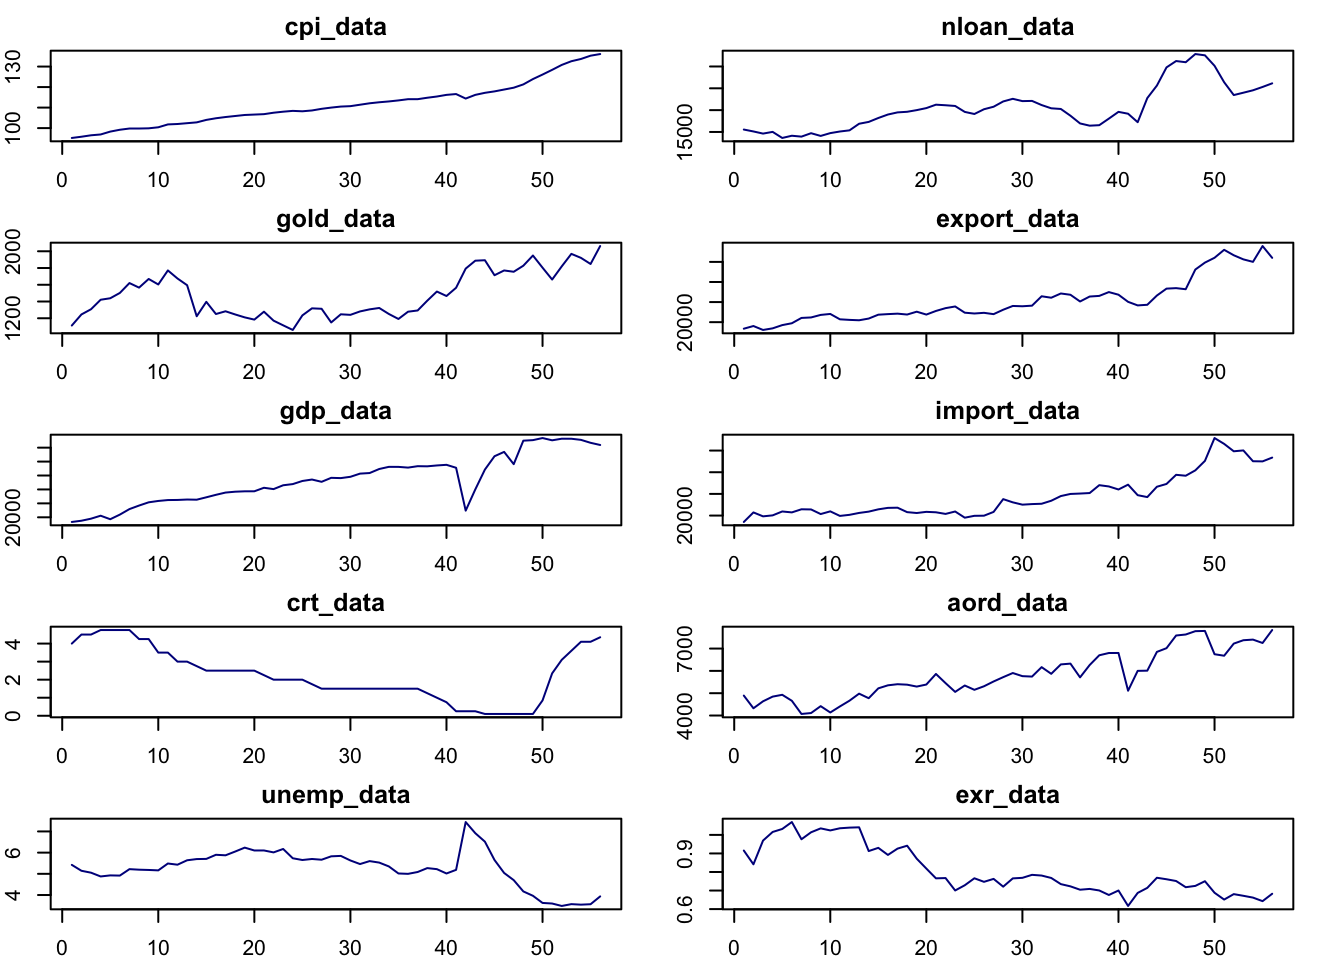
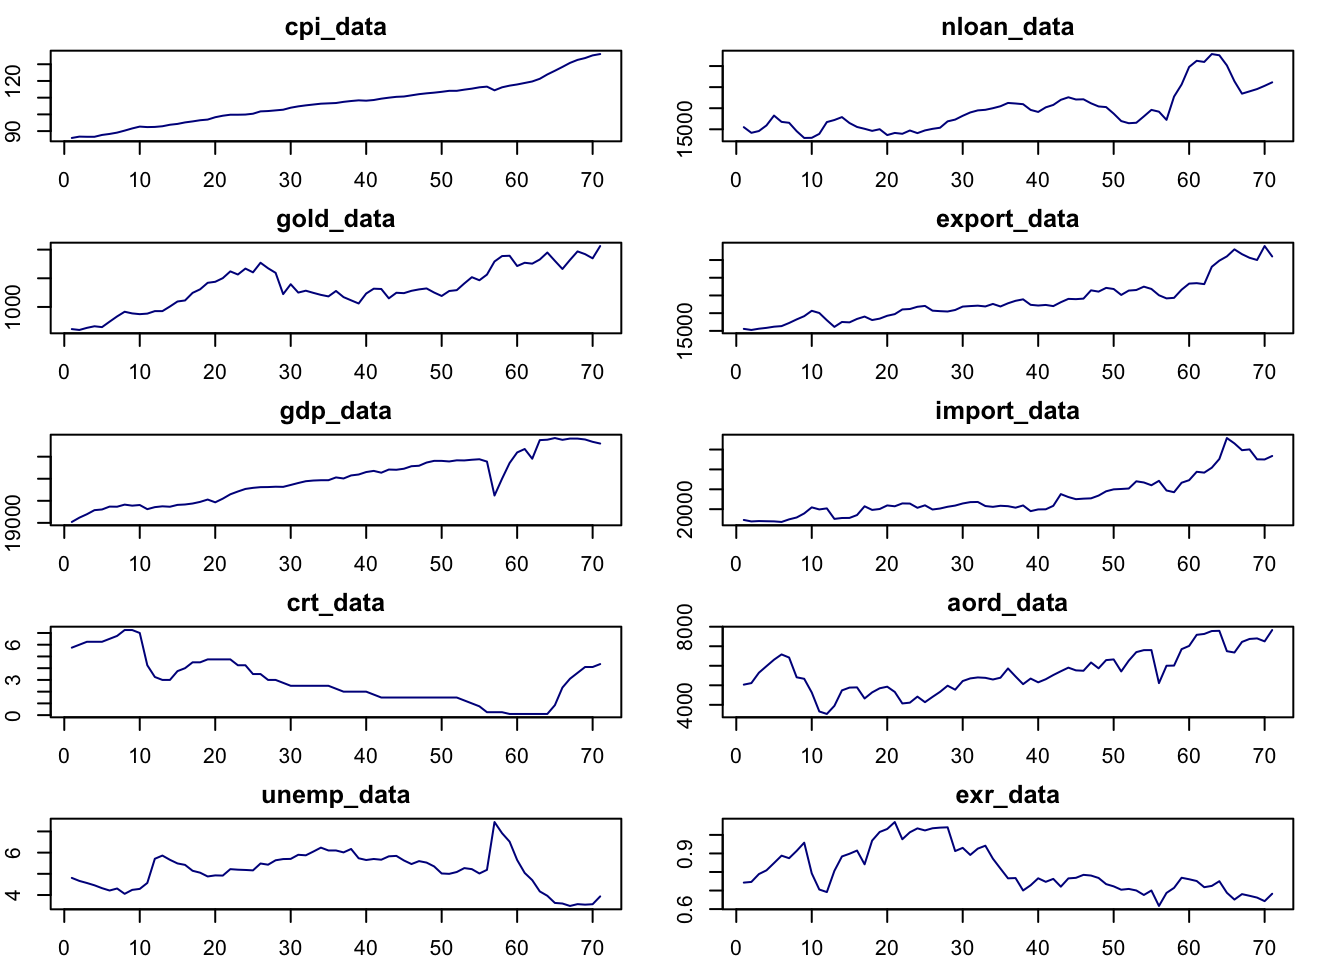
update

diff --git a/docs/index.html b/docs/index.html
@@ -200,7 +200,7 @@ ul.task-list li input[type="checkbox"] {
 </ol>
 <p>It affects the price of imports and exports, contributing to inflation.</p></li>
 </ul>
-<p>Following Table shows the correlation between CPI and other variables.</p>
+<p>Following Table shows the correlation between CPI and other variables. It should be noted that the unemployment rate exhibits a weak correlation with the CPI. This could be attributed to the Phillips Curve, which illustrates a short-term inverse relationship between unemployment and inflation. Over the long term, however, this correlation may diminish due to various influencing factors</p>
 <div class="cell">
 <div class="cell-output-display">
 <div class="table-responsive">
@@ -218,39 +218,39 @@ ul.task-list li input[type="checkbox"] {
 </tr>
 <tr class="even">
 <td style="text-align: center;">gold_data</td>
-<td style="text-align: center;">0.6040</td>
+<td style="text-align: center;">0.8055</td>
 </tr>
 <tr class="odd">
 <td style="text-align: center;">gdp_data</td>
-<td style="text-align: center;">0.9319</td>
+<td style="text-align: center;">0.9610</td>
 </tr>
 <tr class="even">
 <td style="text-align: center;">crt_data</td>
-<td style="text-align: center;">-0.3686</td>
+<td style="text-align: center;">-0.6522</td>
 </tr>
 <tr class="odd">
 <td style="text-align: center;">unemp_data</td>
-<td style="text-align: center;">-0.5680</td>
+<td style="text-align: center;">-0.1785</td>
 </tr>
 <tr class="even">
 <td style="text-align: center;">nloan_data</td>
-<td style="text-align: center;">0.7493</td>
+<td style="text-align: center;">0.7663</td>
 </tr>
 <tr class="odd">
 <td style="text-align: center;">export_data</td>
-<td style="text-align: center;">0.9581</td>
+<td style="text-align: center;">0.9583</td>
 </tr>
 <tr class="even">
 <td style="text-align: center;">import_data</td>
-<td style="text-align: center;">0.9152</td>
+<td style="text-align: center;">0.9202</td>
 </tr>
 <tr class="odd">
 <td style="text-align: center;">aord_data</td>
-<td style="text-align: center;">0.8920</td>
+<td style="text-align: center;">0.7173</td>
 </tr>
 <tr class="even">
 <td style="text-align: center;">exr_data</td>
-<td style="text-align: center;">-0.7951</td>
+<td style="text-align: center;">-0.5782</td>
 </tr>
 </tbody>
 </table>
@@ -260,14 +260,14 @@ ul.task-list li input[type="checkbox"] {
 </div>
 </div>
 <p>Table 1 Correlation Matrix</p>
-<p>In summary, the dataset included data from 2010Q1 to 2023Q4, total 96 observation points with 10 variables.</p>
+<p>In summary, the dataset included data from 2006Q2 to 2023Q4, total 71 observation points with 10 variables.</p>
 </section>
 <section id="data-transformation" class="level3">
 <h3 class="anchored" data-anchor-id="data-transformation">Data Transformation</h3>
 <ul>
 <li><strong>Quarterly Transformation</strong></li>
 </ul>
-<p>All data have been quarterly converted by selecting the data on the last day of the quarter as the observation.</p>
+<p>All data have been quarterly converted by selecting the data on the last day of the quarter as the observation. One of the reasons for not using monthly data is that the key data of this study, CPI, is published on ABS, and the monthly data starting point is Q3 of 2017. Since the research wanted to capture longer-term data, quarterly data was considered (the starting point was Q2 2006).</p>
 <ul>
 <li><strong>Log Transformation</strong></li>
 </ul>
@@ -297,7 +297,7 @@ ul.task-list li input[type="checkbox"] {
 </div>
 <p>Figure 2 ACF Plot for all data</p>
 <p>Considering the selection of the order of single-order integration, the unit root test (ADF test) is used and the p value is used to determine its significance. A small p-value means the null hypothesis is rejected (non-stationary).</p>
-<p>According to Table 2, we can see that <span class="math inline">\(lcpi_i\)</span>, <span class="math inline">\(gold_i\)</span>, <span class="math inline">\(lexport_i\)</span> require second-order integration, while <span class="math inline">\(gdp_i\)</span>, <span class="math inline">\(unemp_i\)</span>, <span class="math inline">\(nloan_i\)</span> require first-order integration(under 5% level of confidence and n in the table means larger than 2).</p>
+<p>According to Table 2, we can see that <span class="math inline">\(lcpi_i\)</span>, <span class="math inline">\(lcrt_i\)</span>, <span class="math inline">\(lexport_i\)</span>, <span class="math inline">\(limport_i\)</span>, <span class="math inline">\(lexport_i\)</span>require second-order integration, while <span class="math inline">\(gold_i\)</span>, <span class="math inline">\(gdp_i\)</span>, <span class="math inline">\(unemp_i\)</span>, <span class="math inline">\(nloan_i\)</span>, <span class="math inline">\(aord_i\)</span>require first-order integration(under 5% level of confidence.</p>
 <div class="cell" data-layout-align="center">
 <div class="cell-output-display">
 <div class="table-responsive">
@@ -314,73 +314,73 @@ ul.task-list li input[type="checkbox"] {
 <tbody>
 <tr class="odd">
 <td style="text-align: center;">lcpi</td>
-<td style="text-align: center;">0.9900</td>
-<td style="text-align: center;">0.7612</td>
-<td style="text-align: center;">0.0766</td>
+<td style="text-align: center;">0.9863</td>
+<td style="text-align: center;">0.5974</td>
+<td style="text-align: center;">0.0551</td>
 <td style="text-align: center;">lcpi~I(2)</td>
 </tr>
 <tr class="even">
 <td style="text-align: center;">gold</td>
-<td style="text-align: center;">0.7279</td>
-<td style="text-align: center;">0.5153</td>
-<td style="text-align: center;">0.0153</td>
-<td style="text-align: center;">gold~I(2)</td>
+<td style="text-align: center;">0.5910</td>
+<td style="text-align: center;">0.0100</td>
+<td style="text-align: center;">NA</td>
+<td style="text-align: center;">gold~I(1)</td>
 </tr>
 <tr class="odd">
 <td style="text-align: center;">gdp</td>
-<td style="text-align: center;">0.5382</td>
+<td style="text-align: center;">0.6333</td>
 <td style="text-align: center;">0.0100</td>
 <td style="text-align: center;">NA</td>
 <td style="text-align: center;">gdp~I(1)</td>
 </tr>
 <tr class="even">
 <td style="text-align: center;">crt</td>
-<td style="text-align: center;">0.1841</td>
-<td style="text-align: center;">0.1606</td>
-<td style="text-align: center;">0.3508</td>
-<td style="text-align: center;">crt~I(n)</td>
+<td style="text-align: center;">0.3132</td>
+<td style="text-align: center;">0.4088</td>
+<td style="text-align: center;">0.0100</td>
+<td style="text-align: center;">crt~I(2)</td>
 </tr>
 <tr class="odd">
 <td style="text-align: center;">unemp</td>
-<td style="text-align: center;">0.4344</td>
+<td style="text-align: center;">0.2145</td>
 <td style="text-align: center;">0.0100</td>
 <td style="text-align: center;">NA</td>
 <td style="text-align: center;">unemp~I(1)</td>
 </tr>
 <tr class="even">
 <td style="text-align: center;">nloan</td>
-<td style="text-align: center;">0.3625</td>
-<td style="text-align: center;">0.0100</td>
+<td style="text-align: center;">0.9900</td>
+<td style="text-align: center;">0.0163</td>
 <td style="text-align: center;">NA</td>
 <td style="text-align: center;">nloan~I(1)</td>
 </tr>
 <tr class="odd">
 <td style="text-align: center;">lexport</td>
 <td style="text-align: center;">0.9900</td>
-<td style="text-align: center;">0.7513</td>
-<td style="text-align: center;">0.0265</td>
+<td style="text-align: center;">0.4046</td>
+<td style="text-align: center;">0.0100</td>
 <td style="text-align: center;">lexport~I(2)</td>
 </tr>
 <tr class="even">
 <td style="text-align: center;">limport</td>
-<td style="text-align: center;">0.9727</td>
-<td style="text-align: center;">0.0100</td>
-<td style="text-align: center;">NA</td>
-<td style="text-align: center;">limport~I(1)</td>
+<td style="text-align: center;">0.9900</td>
+<td style="text-align: center;">0.3215</td>
+<td style="text-align: center;">0.2758</td>
+<td style="text-align: center;">limport~I(2)</td>
 </tr>
 <tr class="odd">
 <td style="text-align: center;">aord</td>
-<td style="text-align: center;">0.7712</td>
-<td style="text-align: center;">0.0100</td>
+<td style="text-align: center;">0.9900</td>
+<td style="text-align: center;">0.0108</td>
 <td style="text-align: center;">NA</td>
 <td style="text-align: center;">aord~I(1)</td>
 </tr>
 <tr class="even">
 <td style="text-align: center;">lexr</td>
-<td style="text-align: center;">0.0175</td>
-<td style="text-align: center;">NA</td>
-<td style="text-align: center;">NA</td>
-<td style="text-align: center;">lexr~I(0)</td>
+<td style="text-align: center;">0.6102</td>
+<td style="text-align: center;">0.0733</td>
+<td style="text-align: center;">0.0577</td>
+<td style="text-align: center;">lexr~I(2)</td>
 </tr>
 </tbody>
 </table>
@@ -391,7 +391,7 @@ ul.task-list li input[type="checkbox"] {
 </div>
 <p>Table 2 Unit root test for all data</p>
 <p>Since the second-order difference may remove part of the long-term information (such as trends) in the data, this may be detrimental to time series data such as <span class="math inline">\(cpi_i\)</span> and <span class="math inline">\(crt_i\)</span> that contain important trend information. Therefore, only first-order differences are used for all data.</p>
-<p>After first-order difference processing of the data and logarithmic transformation of part of the data, the line plot of the dataset is as shown below (Figure 3): Even after one section of differential processing, the dataset still retains some trend characteristics. For example, almost all variables showed significant changes before and after COVID (the x-aisx is 30-40).</p>
+<p>After first-order difference processing of the data and logarithmic transformation of part of the data, the line plot of the dataset is as shown below (Figure 3). Even after first order difference processing, the dataset still retains some trend characteristics. For example, almost all variables showed significant changes before and after COVID (the x-aisx is 50-60).</p>
 <div class="cell" data-layout-align="center">
 <div class="cell-output-display">
 <div class="quarto-figure quarto-figure-center">
